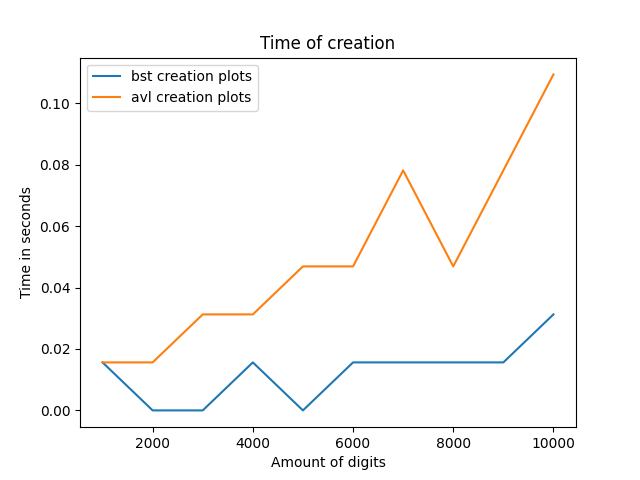
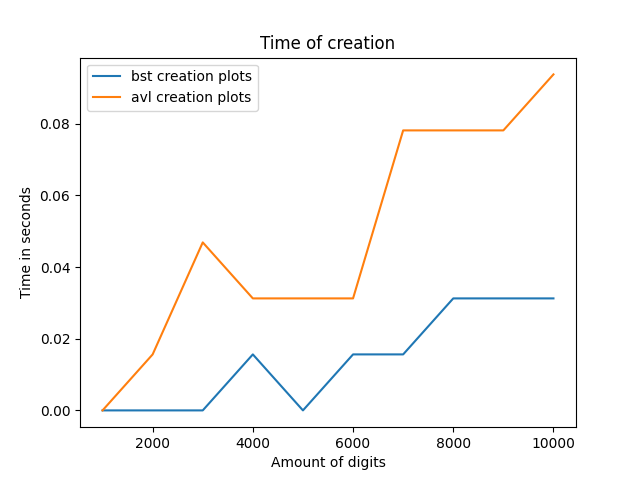
changed delete function in bst and updated tests

diff --git a/Trees/BST.py b/Trees/BST.py
@@ -32,58 +32,36 @@ class BinarySearchTree:
                 return self.find_rec(node, node.right_child, node_value)
         return parent, node
 
-    def find_biggest_node_in_subtree(self, parent, node):
-        while node.right_child:
-            parent = node
-            node = node.right_child
-        return parent, node
+    def _get_node_with_min_value(self, node):
+        if not node or not node.left_child:
+            return node
+        return self._get_node_with_min_value(node.left_child)
 
     def delete_node(self, node_value):
-        parent, node = self.find_rec(None, self.root, node_value)
-        if node:
-            if node.left_child:
-                if node.right_child:
-                    # has two children
-                    new_parent, new_node = self.find_biggest_node_in_subtree(node, node.left_child)
-                    if parent:
-                        if parent.left_child == node:
-                            parent.left_child.value = new_node.value
-                        else:
-                            parent.right_child.value = new_node.value
-                    else:
-                        self.root.value = new_node.value
-                    if node != new_parent:
-                        new_parent.left_child = None
-                    else:
-                        node.left_child = new_node.left_child
-                else:
-                    # has left child
-                    if parent:
-                        if parent.right_child == node:
-                            parent.right_child = node.left_child
-                        else:
-                            parent.left_child = node.left_child
-                    else:
-                        self.root = node.left_child
-            else:
-                if node.right_child:
-                    # has right child
-                    if parent:
-                        if parent.left_child == node:
-                            parent.left_child = node.right_child
-                        else:
-                            parent.right_child = node.right_child
-                    else:
-                        self.root = node.right_child
-                else:
-                    # does not have children
-                    if parent:
-                        if parent.left_child == node:
-                            parent.left_child = None
-                        else:
-                            parent.right_child = None
-                    else:
-                        self.root = None
+        self.root = self._delete_node(self.root, node_value)
+
+    def _delete_node(self, node, node_value):
+        if not node:
+            return node
+        elif node_value < node.value:
+            node.left_child = self._delete_node(node.left_child, node_value)
+        elif node_value > node.value:
+            node.right_child = self._delete_node(node.right_child, node_value)
+        else:
+            # in this case node has one child or none
+            if not node.left_child:
+                temp_node = node.right_child
+                node = None
+                return temp_node
+            elif not node.right_child:
+                temp_node = node.left_child
+                node = None
+                return temp_node
+            # in this case node has both children
+            temp_node = self._get_node_with_min_value(node.right_child)
+            node.value = temp_node.value
+            node.right_child = self._delete_node(node.right_child, temp_node.value)
+        return node
 
     def print_horizontally(self, left, level, node):
         if node:

diff --git a/Trees/test_BST.py b/Trees/test_BST.py
@@ -37,17 +37,17 @@ def test_BST_delete_node():
     assert tree.root.right_child.right_child.right_child.right_child is None
     assert tree.root.right_child.right_child.right_child.left_child is None
     tree.delete_node(6)
-    assert tree.root.right_child.right_child.value == 5
-    assert tree.root.right_child.right_child.right_child.value == 7
-    assert tree.root.right_child.right_child.left_child.value == 4
-    assert tree.root.right_child.right_child.left_child.left_child.value == 3
+    assert tree.root.right_child.right_child.value == 7
+    assert tree.root.right_child.right_child.left_child.value == 5
+    assert tree.root.right_child.right_child.left_child.left_child.value == 4
+    assert tree.root.right_child.right_child.left_child.left_child.left_child.value == 3
     tree.delete_node(0)
     assert tree.root.value == 2
     assert tree.root.left_child.value == 1
-    assert tree.root.right_child.value == 5
-    assert tree.root.right_child.right_child.value == 7
-    assert tree.root.right_child.left_child.value == 4
-    assert tree.root.right_child.left_child.left_child.value == 3
+    assert tree.root.right_child.value == 7
+    assert tree.root.right_child.left_child.value == 5
+    assert tree.root.right_child.left_child.left_child.value == 4
+    assert tree.root.right_child.left_child.left_child.left_child.value == 3
 
 
 def test_BTS_find_node():
@@ -65,12 +65,10 @@ def test_BTS_find_node():
     assert tree.find_rec(None, tree.root, 8)[1].left_child.value == 7
 
 
-def test_BST_find_biggest_node_in_a_subtree():
+def test_BST__get_node_with_min_value():
     digits = [0, 2, 1, 6, 5, 8, 4, 7, 9, 3]
     tree = BinarySearchTree()
     for i in range(len(digits)):
         tree.insert_rec(digits[i], tree.root)
-    assert tree.find_biggest_node_in_subtree(None, tree.root)[0].value == 8
-    assert tree.find_biggest_node_in_subtree(None, tree.root)[1].value == 9
-    assert tree.find_biggest_node_in_subtree(tree.root.right_child.right_child, tree.root.right_child.right_child.left_child)[0].value == 6
-    assert tree.find_biggest_node_in_subtree(tree.root.right_child.right_child, tree.root.right_child.right_child.left_child)[1].value == 5
+    assert tree._get_node_with_min_value(tree.root).value == 0
+    assert tree._get_node_with_min_value(tree.root.right_child.right_child).value == 3
